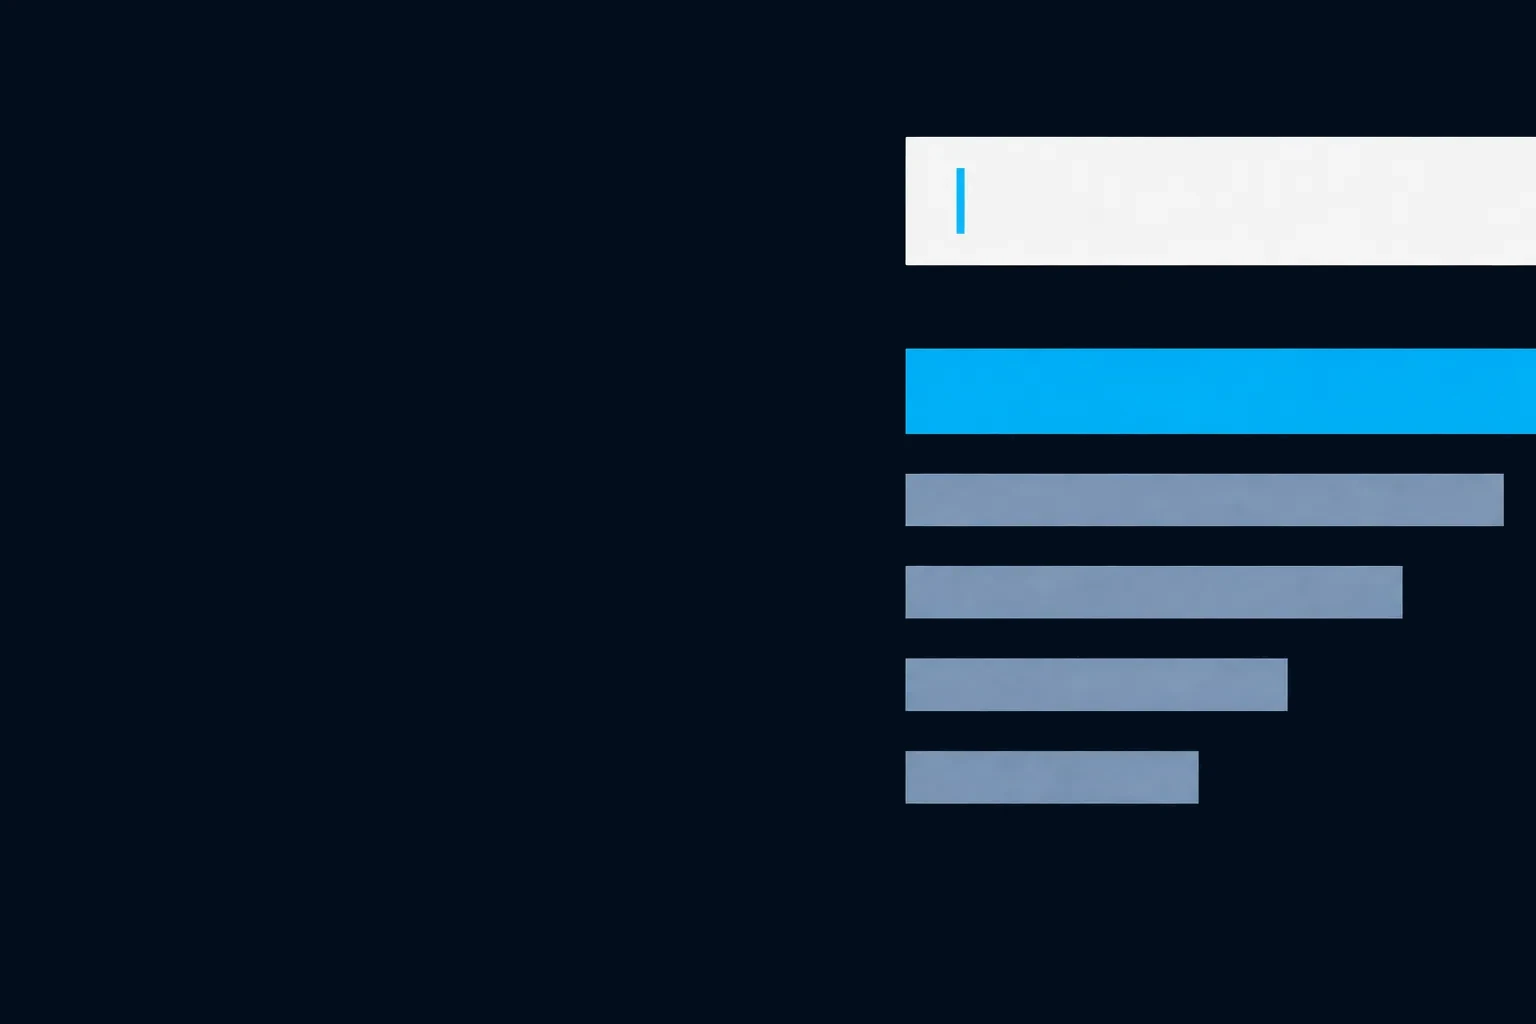
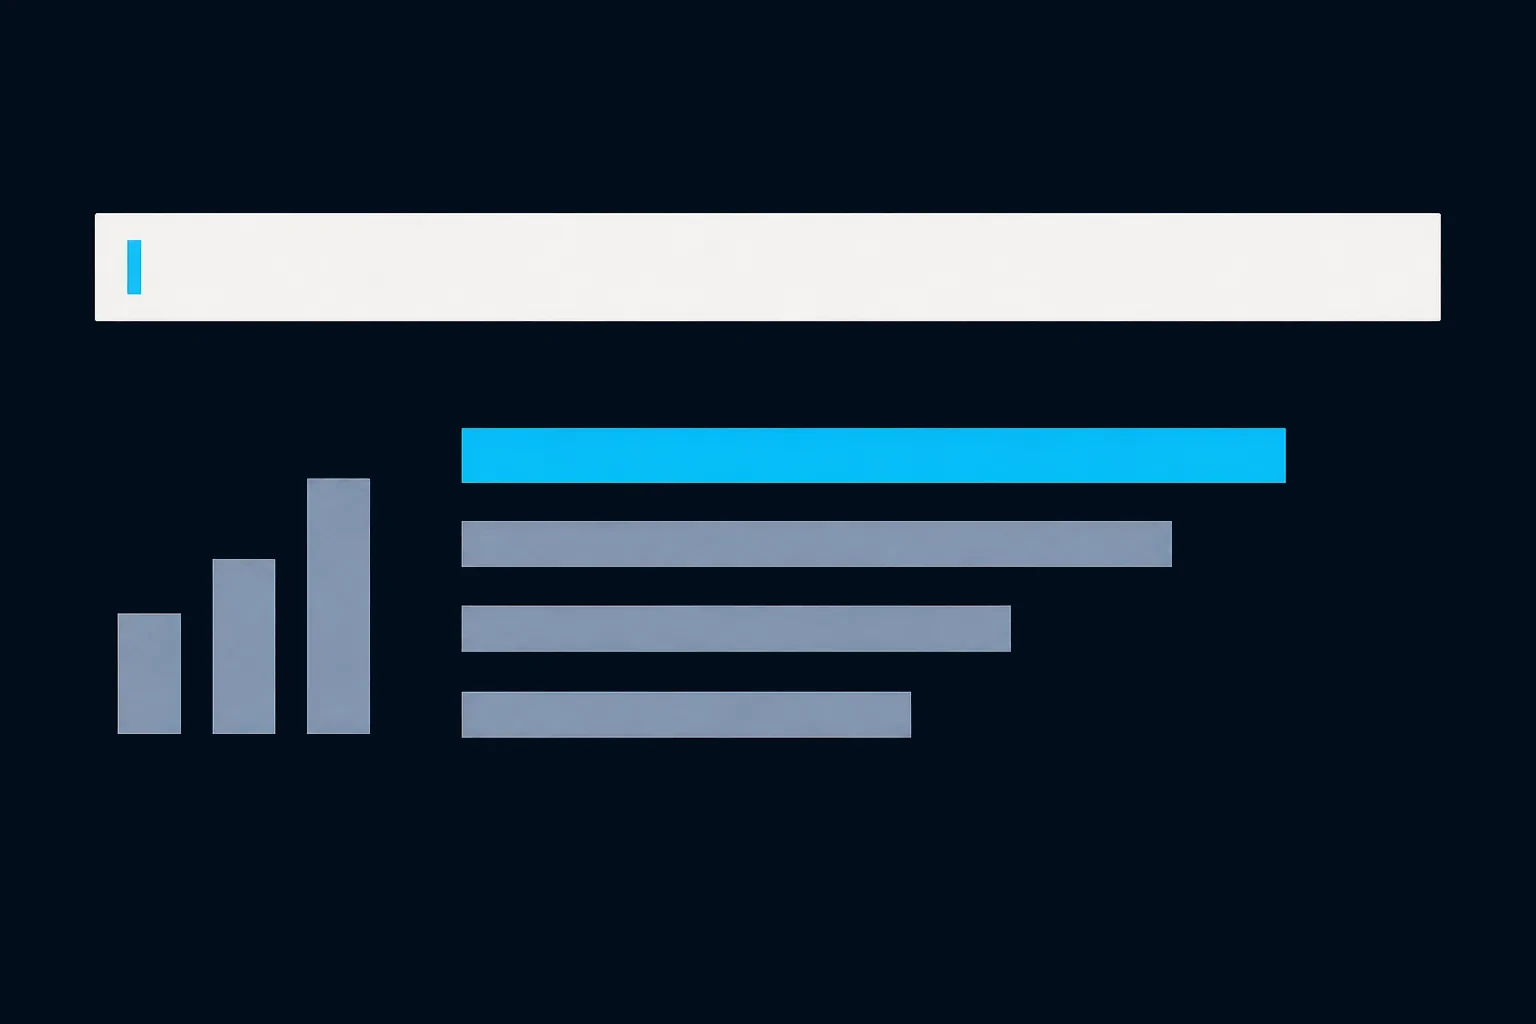
Portraits are cutouts, course tiles get their headers, art fills the frame
The portraits painted a #020d1c field behind the cutout. That was invisible
while every page was that colour and became a dark tile on each of them the
day banded sections arrived. They now draw only the disc and the arc, so a
portrait sits on canvas, band or card alike, and the frames around them are
gone. All nine still prove identical to the source photographs.

brand-portraits.mjs could not run on a Mac at all: it rewrote / into \ when
building the source path, the same Windows-ism fixed in check-site.mjs in
September.

The homepage course tiles now show the headers of the pages they link to,
like the service tiles above them. Those three motifs were drawn weighted
hard right - their prompts asked for an empty left half, which is right for
a hero and a hole in a tile - so they were redrawn to fill the frame. Empty
margins went from 60/0, 41/5 and 59/0 to 13/10, 5/8 and 6/6.

Fixes a defect in the band transform: adjacency only looked backwards, so a
section could be banded against the closing cta-band. It looks forward now,
and the cta-band counts as a closer rather than a band, since it is a
different surface.

Changed region(s): [[0.0625, 0.125, 1.0, 0.8125], [0.0625, 0.4688, 0.25, 0.7188]]

diff --git a/eleventy.config.js b/eleventy.config.js
@@ -477,9 +477,8 @@ module.exports = function (eleventyConfig) {
 
     const re = /<\/?section\b[^>]*>/g;
     re.lastIndex = open;
-    const edits = [];
+    const found = [];
     let depth = 0;
-    let banded = true; // the first content section stays plain
     let start = null;
     let m;
     while ((m = re.exec(content)) && m.index < close) {
@@ -488,18 +487,12 @@ module.exports = function (eleventyConfig) {
         if (depth === 0 && start) {
           const inner = content.slice(start.end, m.index);
           const cls = start.cls;
-          if (/\bsec--hero\b|\bpage-hero\b/.test(cls)) {
-            // leave `banded` alone
-          } else if (/\bcta-band\b|\bsec--band\b/.test(cls)) {
-            banded = true;
-          } else if (!/\bsec\b/.test(cls) || /class="[^"]*\bmotif\b/.test(inner)) {
-            banded = false;
-          } else if (!banded) {
-            edits.push(start);
-            banded = true;
-          } else {
-            banded = false;
-          }
+          start.kind = /\bsec--hero\b|\bpage-hero\b/.test(cls) ? "hero"
+            : /\bcta-band\b/.test(cls) ? "closer"
+            : /\bsec--band\b/.test(cls) ? "band"
+            : !/\bsec\b/.test(cls) || /class="[^"]*\bmotif\b/.test(inner) ? "keep"
+            : "plain";
+          found.push(start);
           start = null;
         }
         continue;
@@ -509,6 +502,29 @@ module.exports = function (eleventyConfig) {
         start = { cls, tag: m[0], index: m.index, end: m.index + m[0].length };
       }
       if (!/\/>$/.test(m[0])) depth += 1;
+    }
+    /* Decided in a second pass, because the rule needs to look FORWARD as well
+       as back: a `.cta-band` closes most pages, and banding the section just
+       above it makes the two read as one tall block. Looking only at the
+       previous section missed that - the cta-band had not been seen yet. */
+    const edits = [];
+    let banded = true; // the first content section stays plain
+    for (let i = 0; i < found.length; i += 1) {
+      const sec = found[i];
+      if (sec.kind === "hero") continue;          // never banded, never resets
+      if (sec.kind === "band") { banded = true; continue; }
+      // The closing `.cta-band` is a DIFFERENT surface (--card, darker than
+      // --band), so a band may sit against it: the two read as two blocks.
+      // Only two same-coloured bands must never touch.
+      if (sec.kind === "closer") { banded = false; continue; }
+      if (sec.kind === "keep") { banded = false; continue; }
+      const next = found.slice(i + 1).find((s2) => s2.kind !== "hero");
+      if (!banded && !(next && next.kind === "band")) {
+        edits.push(sec);
+        banded = true;
+      } else {
+        banded = false;
+      }
     }
     if (!edits.length) return content;
 

diff --git a/src/css/style.css b/src/css/style.css
@@ -788,7 +788,6 @@ main > .sec:first-child, main > section:first-child { border-top: 0; }
   aspect-ratio: 1;
   object-fit: cover;
   border-radius: var(--radius);
-  border: 1px solid var(--line);
   margin-bottom: 16px;
 }
 .team-card h3 { margin-bottom: 2px; font-size: var(--t-d1); }
@@ -949,7 +948,7 @@ main > .sec:first-child, main > section:first-child { border-top: 0; }
 
 .instructor-card { background: var(--card); border: 1px solid var(--line); border-radius: var(--radius); padding: 26px; }
 .instructor-card .who { display: flex; align-items: center; gap: 16px; margin-bottom: 14px; }
-.instructor-card img { width: 60px; height: 60px; object-fit: cover; border-radius: 0; border: 1px solid var(--line); }
+.instructor-card img { width: 60px; height: 60px; object-fit: cover; border-radius: 0; }
 .instructor-card .who strong { display: block; font-family: var(--font-display); font-weight: 600; font-size: var(--t-base); color: var(--heading); }
 .instructor-card .who span { font-size: var(--t-micro); color: var(--muted); letter-spacing: 0.08em; text-transform: uppercase; }
 .instructor-card p { font-size: var(--t-base); margin: 0 0 12px; }
@@ -1198,7 +1197,10 @@ main > .sec:first-child, main > section:first-child { border-top: 0; }
    the homepage process section unnecessarily tall. The photograph occupies the
    bottom square of that frame, so a 1:1 crop anchored to the bottom removes the
    drawn headroom exactly and takes nothing off the subject. */
-.media--crop-top { aspect-ratio: 1 / 1; }
+/* The founder portrait is drawn with no field of its own (see
+   tools/brand-portraits.mjs), so it sits straight on the section: no
+   frame and no fill, or it reads as a dark tile pasted onto the band. */
+.media--crop-top { aspect-ratio: 1 / 1; border: 0; background: none; }
 .media--crop-top img { object-position: center bottom; }
 .media figcaption {
   position: absolute; left: 0; right: 0; bottom: 0;

diff --git a/src/pages/index.html b/src/pages/index.html
@@ -158,19 +158,22 @@ image: "/img/2025/03/Title-1.png"
       <p class="lead">Praktiski kursi uzņēmējiem un speciālistiem — māca praktiķi, kas ikdienā pārvalda reālas kampaņas. <a class="arrow-link" href="/digitala-marketinga-kursi/">Visi kursi</a></p>
     </div>
     <div class="hgrid hgrid--3">
-      <div class="cell">
+      <div class="cell cell--media">
+        <figure class="cell-media cell-media--motif motif--scroll">{% include "motifs/kurss-meta.njk" %}</figure>
         <span class="cell-idx">01</span>
         <h3>Meta reklāmas kurss</h3>
         <p>Facebook un Instagram reklāmas no pamatiem līdz padziļinātām stratēģijām — mūsu apjomīgākais Meta reklāmas kurss.</p>
         <a class="arrow-link" href="/meta-reklamas-kurss/">Par kursu</a>
       </div>
-      <div class="cell">
+      <div class="cell cell--media">
+        <figure class="cell-media cell-media--motif motif--scroll">{% include "motifs/kurss-seo.njk" %}</figure>
         <span class="cell-idx">02</span>
         <h3>SEO kursi</h3>
         <p>Iemācies pacelt savu mājaslapu Google rezultātos un piesaistīt klientus organiski, bez maksas reklāmas.</p>
         <a class="arrow-link" href="/seo-kursi/">Par kursu</a>
       </div>
-      <div class="cell">
+      <div class="cell cell--media">
+        <figure class="cell-media cell-media--motif motif--scroll">{% include "motifs/kurss-google.njk" %}</figure>
         <span class="cell-idx">03</span>
         <h3>Google Ads kurss</h3>
         <p>Esi klāt brīdī, kad cilvēks jau meklē Tavu produktu — meklēšanas kampaņas, atslēgvārdi un konversiju uzskaite.</p>

diff --git a/CLAUDE.md b/CLAUDE.md
@@ -223,6 +223,19 @@ before. Three rules, each load-bearing:
 carry motifs - and keeps only the process band it already had. That is correct,
 not a bug.
 
+**Corrected 5 Oct 2026, a defect the first version shipped with.** The adjacency
+rule only looked BACKWARDS, so the last content section could be banded hard
+against the closing `.cta-band`. The decision is a second pass over the whole
+list now, and it looks forward as well. In the same pass the `.cta-band` was
+reclassified as a **closer** rather than a band: it is `--card` `#00152c`, a
+different surface from `--band` `#0e2743`, so a band may sit against it and the
+two still read as two blocks. Only two SAME-coloured bands must never touch.
+
+**Adding a motif to a section takes it out of the rotation**, which shifts every
+band after it. That is how it should work, but it means a tile grid gaining
+artwork re-flows the page's rhythm - check the sequence afterwards rather than
+assuming. The homepage's three course tiles did exactly this on 5 Oct.
+
 **Still open: the canvas itself.** Lifting `#020d1c` off black is what would
 actually answer "unpleasant to read", and it is a bigger job than a token:
 **137 generated images and 66 motif includes are ground-matched to that exact
@@ -402,6 +415,25 @@ deleted so `npm run images` cannot recreate it. `aspect` in the PORTRAITS list
 sets the FRAME shape only — a taller frame draws more backdrop, it never crops
 or stretches the photograph. Match the slot exactly (`.media--portrait` is 3:4)
 or object-fit:cover silently crops the result.
+
+**The portraits carry NO field of their own since 5 Oct 2026.** The tool used to
+paint a solid `#020d1c` rectangle behind the cutout, which was invisible while
+every page was that colour - and became a dark tile on every portrait the moment
+banded sections arrived two days earlier. Owner, seeing the team wall: *"fix then
+the backgrounds of these pictures too, or change section color."* Now only the
+cyan disc and the white arc are drawn, so the figure sits on whatever is behind
+it: canvas, band or card. **Prefer this to painting the band colour in** - the
+same files appear on three different grounds, and a painted field is wrong on
+two of them and stale the next time a colour changes.
+- The backdrop guard moved with it: it tested that background pixels MATCHED the
+  drawn navy, and now tests that they are CLEAR (alpha < 10). It still catches
+  the failure it exists for - an opaque cutout leaves the photograph's own
+  background at full alpha, which fails both that and the pixel test.
+- `.team-card img` and `.instructor-card img` lost their 1px borders at the same
+  time: a border around a cutout frames an invisible square.
+- **The tool could not run on a Mac at all until 5 Oct 2026.** It rewrote `/`
+  into `\` when building the source path, so every photograph read as missing -
+  the same Windows-ism that was fixed in `check-site.mjs` on 2 Sep.
 
 `npm run portraits:brand` → `tools/brand-portraits.mjs` (non-generative):
 1. sharp square-crops the ORIGINAL photograph;
@@ -1870,7 +1902,20 @@ usually the clearest way to say what a page is about.
 **Only four images use treatment 2** — `meta-reklamas-motivs` (a feed post in a
 phone), `google-ads-motivs` (paid placement above organic results),
 `seo-mekletaja-motivs` (a result climbing the rankings) and
-`konsultacijas-saruna` (two profiles either side of one cyan square). Owner,
+`konsultacijas-saruna` (two profiles either side of one cyan square).
+
+**Three of them were redrawn to fill the frame on 5 Oct 2026.** Their prompts
+asked, word for word, for *"the empty left half of the frame"*, *"left third of
+the frame empty"* and *"everything is weighted right and cropped by the right
+edge"* - correct for a hero, where the empty side sits under the headline
+column, and a hole the moment the same motif is shown in a 16:10 tile. Measured
+before and after, as share of the frame left empty on each side:
+`meta` 60/0 → 13/10, `seo` 41/5 → 5/8, `google` 59/0 → 6/6, with ink up from
+15-38% to 20-38% and cyan still 1.4-2.9%. **Tightening the viewBox is not an
+alternative**: the ink spans 92% of the height but 40% of the width, so cropping
+to it gives a tall box that letterboxes in a wide tile. If a motif is ever drawn
+for a hero again, say the drawing spans the full width with an even margin -
+never that one side is empty. Owner,
 5 Sep 2026: *"dont change anything in the current dark background pages and blog
 thumbnails, i like them as they are. Apply the new UI-related style only to
 course and LP headers where appropriate."* Every other motif and all 31 blog
